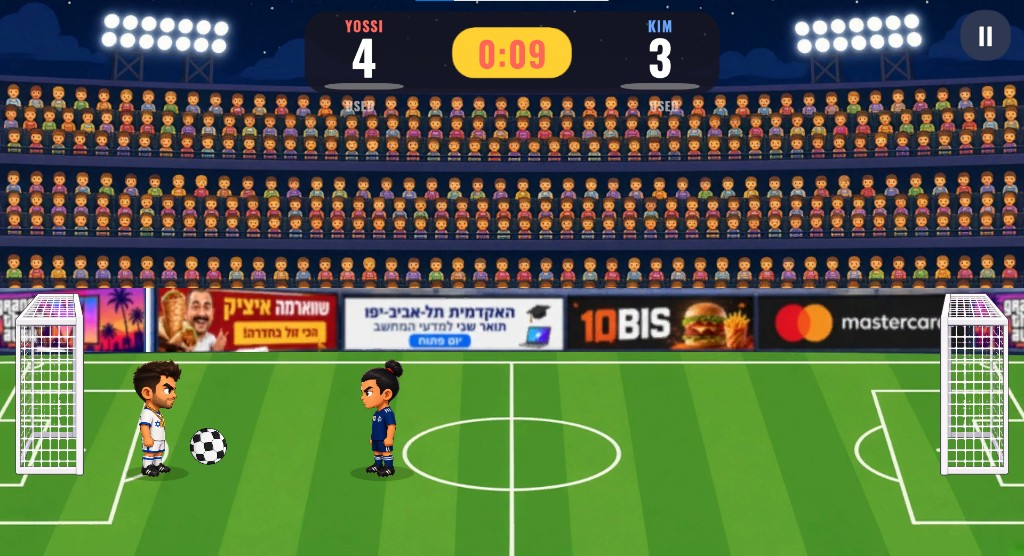
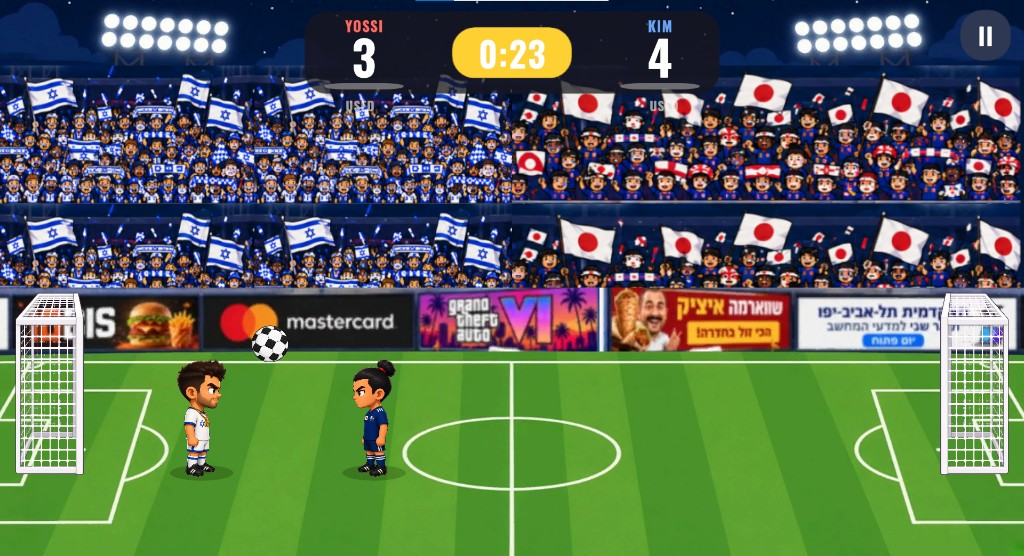
README: the match and rain screenshots show the country crowds and the Super glow
Yossi against Kim replaces the old match still. Anna against David in the rain shows the weather and the aura together.

diff --git a/README.md b/README.md
@@ -23,11 +23,11 @@ All from the Windows build.
 </tr>
 <tr>
 <th width="50%">Match</th>
-<th width="50%">Rain, and each side's own crowd</th>
+<th width="50%">Rain, and a Super ready</th>
 </tr>
 <tr>
-<td width="50%"><img src="Docs/images/exe-match.png" alt="Match: Yossi 4 against Kim 3, nine seconds left" width="100%"></td>
-<td width="50%"><img src="Docs/images/exe-weather.png" alt="A rainy match: Anna with the Ukrainian crowd on the left, David with the English crowd on the right" width="100%"></td>
+<td width="50%"><img src="Docs/images/exe-match.png" alt="Yossi 3 against Kim 4, Israeli crowd on the left and Japanese crowd on the right" width="100%"></td>
+<td width="50%"><img src="Docs/images/exe-weather.png" alt="Rain: Anna glowing because her Super is ready, Ukrainian crowd behind her, David with the English crowd" width="100%"></td>
 </tr>
 <tr>
 <th width="50%">Game over</th>
@@ -39,7 +39,7 @@ All from the Windows build.
 </tr>
 </table>
 
-<p align="center"><sub>Clear, rain or snow is rolled at kickoff. The left stands fill with the home crowd of the character on the left, the right stands with the one on the right.</sub></p>
+<p align="center"><sub>Clear, rain or snow is rolled at kickoff. Each half of the stands fills with that side's crowd. A glow around a player means that Super is ready.</sub></p>
 
 ## Run it
 
